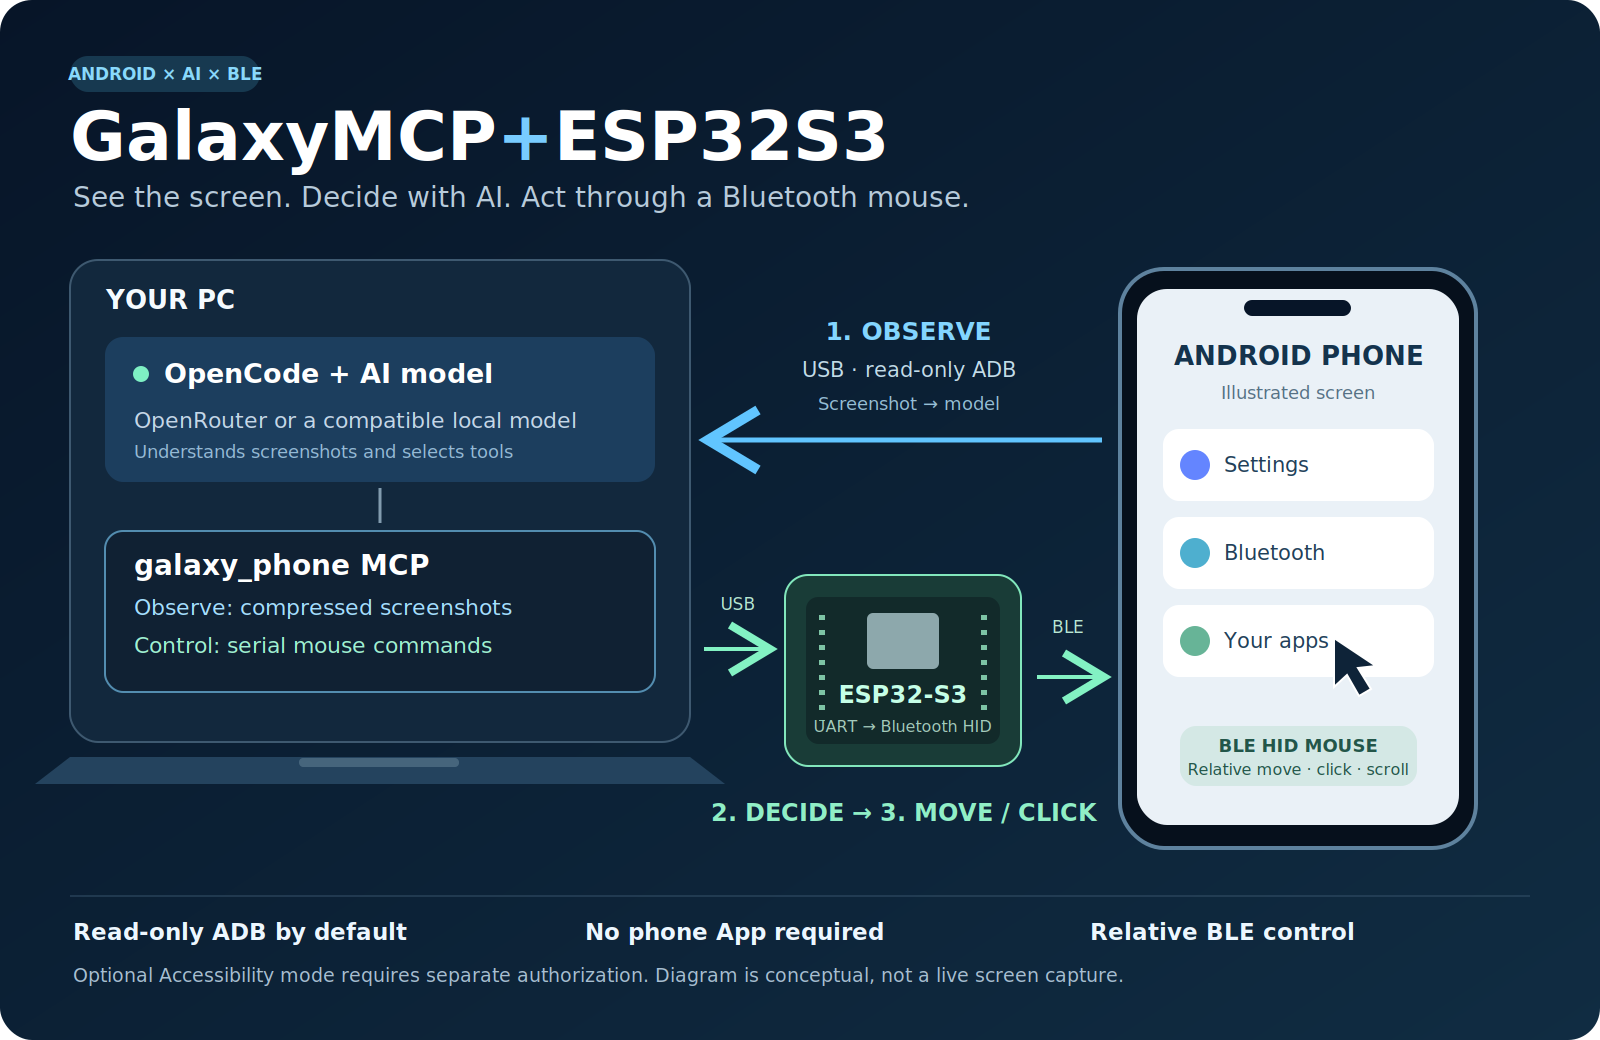
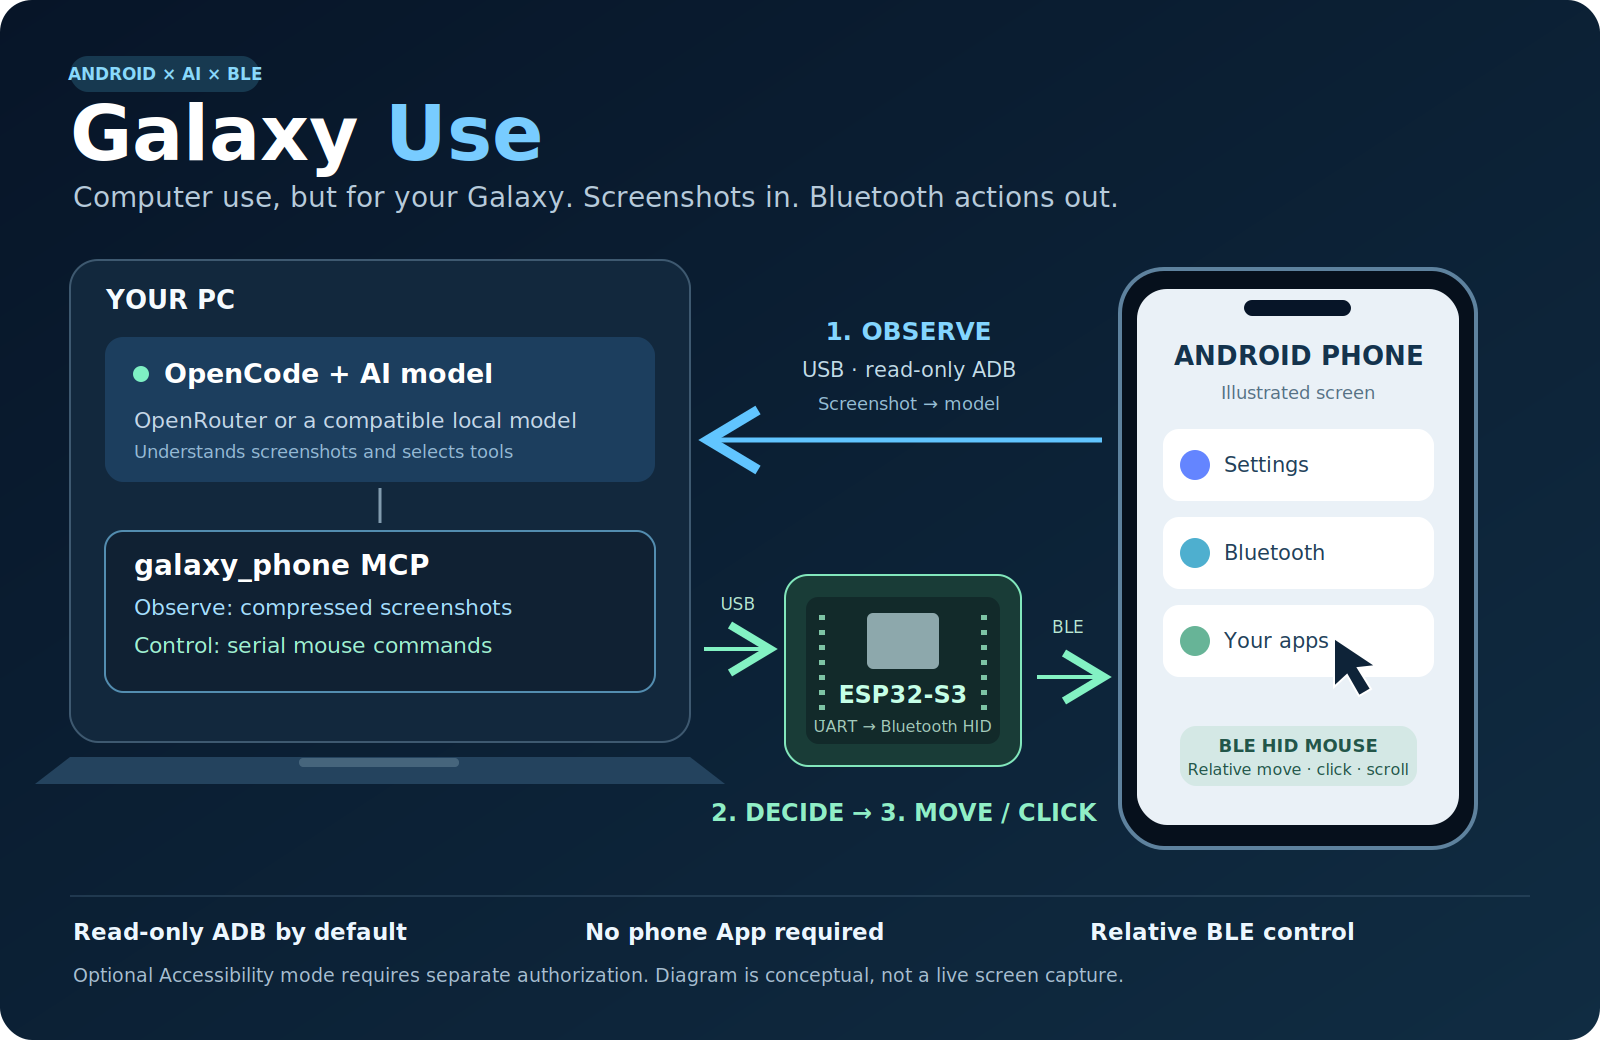
Rebrand as Galaxy Use with bilingual positioning, related projects and refreshed workflow graphic

Changed region(s): [[0.0312, 0.0923, 0.6875, 0.2154]]

diff --git a/README.md b/README.md
@@ -1,11 +1,11 @@
-# GalaxyMCP+ESP32S3
+# Galaxy Use
 
 [繁體中文](#traditional-chinese) · [English](#english)
 
-**讓 OpenCode 看懂 Android 畫面，再經 ESP32-S3 藍牙滑鼠操作手機。**  
-**Let OpenCode observe your Android screen and operate a Bluetooth mouse through an ESP32-S3.**
+**讓 AI 使用你真正的 Galaxy 手機。讀取畫面，再以藍牙滑鼠操作。**  
+**Computer-use-style control for your real Galaxy phone. Screenshots in. Bluetooth actions out.**
 
-![GalaxyMCP+ESP32S3 architecture: screenshots travel from Android to OpenCode through read-only ADB; mouse commands travel from the PC through ESP32-S3 to the phone over Bluetooth.](docs/images/how-it-works.png)
+![Galaxy Use: screenshots travel from Android to OpenCode through read-only ADB; mouse commands travel from the PC through ESP32-S3 to the phone over Bluetooth.](docs/images/how-it-works.png)
 
 **Beta · Windows 10/11 · Android · ESP32-S3 · OpenCode · OpenRouter or a compatible local model**
 
@@ -15,11 +15,15 @@
 
 ### 這個專案是甚麼？
 
-GalaxyMCP+ESP32S3 是連接 **AI 助理與 Android 手機**的本機橋接程式。你在 OpenCode 輸入指令，AI 經 MCP 取得手機畫面，再透過 ESP32-S3 的藍牙 HID 滑鼠功能移動、點擊或捲動。
+**Computer Use，換成你手上的 Galaxy。** Galaxy Use 是連接 AI 助理與真實 Samsung Galaxy／Android 手機的開源本機橋接程式。你在 OpenCode 輸入指令，AI 經 MCP 取得手機畫面，再透過 ESP32-S3 的藍牙 HID 滑鼠功能移動、點擊或捲動。
+
+核心不是模擬器，而是你已解鎖、已授權的實體手機；畫面觀察與輸入控制走兩條獨立路線。預設以 ADB 唯讀擷取畫面，以 ESP32-S3 發送藍牙滑鼠輸入。
 
 **例如：**「描述目前畫面」、「向下捲動一次，再告訴我有甚麼新內容」，或「向右移動滑鼠一次」。開啟 App 或選擇按鈕需要可靠的指標位置及結果驗證，並非輸入名稱就能保證精準點擊。
 
 專案本身不包含 AI 模型；需要 OpenCode 和支援圖片及工具呼叫的模型。預設流程不需要在手機安裝輔助 App。
+
+> 專案原名 GalaxyMCP+ESP32S3，現更名為 Galaxy Use。為保持現有安裝相容，MCP 名稱仍是 `galaxy_phone`，藍牙裝置及輔助 App 名稱亦暫時保留。這次是 repo 品牌及說明更新，不代表新增控制能力。
 
 ### 可以做甚麼？
 
@@ -127,6 +131,21 @@ GalaxyMCP+ESP32S3 是連接 **AI 助理與 Android 手機**的本機橋接程式
 
 [韌體說明](docs/FIRMWARE.md) · [完整 App 指引](README_TC.md) · [安全及資料處理](SECURITY.md) · [MIT License](LICENSE)
 
+### Computer Use / iPhone Use 與 Galaxy Use
+
+Galaxy Use 採用同一類「觀察 → 決策 → 操作 → 驗證」的 agent-use 定位，將焦點放在 Windows、Galaxy／Android 實體手機及 ESP32-S3 藍牙控制。以下是相關開源專案，方便比較不同平台的設計：
+
+| 專案 | 主要方向 |
+|---|---|
+| [open-computer-use](https://github.com/e2b-dev/open-computer-use) | 在 E2B 桌面沙盒內使用 AI 操作電腦 |
+| [iphone-use — leeguooooo](https://github.com/leeguooooo/iphone-use) | macOS 上的實體 iPhone 操作，提供 MCP 等介面 |
+| [iphone-use — xhoantran](https://github.com/xhoantran/iphone-use) | 從 Mac 經 USB 讀取 iPhone 畫面、經藍牙輸入 |
+| **Galaxy Use（本專案）** | Windows + Galaxy／Android；預設 ADB 唯讀觀察 + ESP32-S3 相對 BLE 滑鼠 |
+
+這些是相關專案連結，並非已整合的依賴。Galaxy Use 沒有移植它們的程式碼，也不宣稱具備相同的串流、鍵盤或精準座標點擊能力。若日後重用程式碼，需另行遵守來源授權並保留標示。
+
+本專案為獨立社群專案，並非 Samsung、OpenAI 或上述專案的官方產品或合作版本。
+
 ---
 
 <a id="english"></a>
@@ -137,9 +156,13 @@ GalaxyMCP+ESP32S3 是連接 **AI 助理與 Android 手機**的本機橋接程式
 
 ### What is this project?
 
-**GalaxyMCP+ESP32S3 connects an AI assistant to an Android phone through a local MCP bridge.** You give instructions in OpenCode. A compatible model observes the phone's screenshot and chooses tools; an ESP32-S3 acts as a Bluetooth HID mouse to move, click or scroll.
+**Computer use, but for the Galaxy in your hand.** Galaxy Use is an open-source local bridge that lets an AI assistant observe and interact with a real Samsung Galaxy / Android phone. You give instructions in OpenCode. A compatible model observes the phone's screenshot and chooses tools; an ESP32-S3 acts as a Bluetooth HID mouse to move, click or scroll.
+
+The target is your unlocked, explicitly authorized physical phone, not an emulator. Observation and input use separate paths: read-only ADB for screenshots, and ESP32-S3 BLE HID for mouse input.
 
 The AI model runs through your chosen provider, such as OpenRouter or a compatible local service. **No AI model is included.** The default workflow does not require an Android companion app.
+
+> Formerly GalaxyMCP+ESP32S3. The MCP server remains `galaxy_phone`, and existing Bluetooth / companion App names remain unchanged for compatibility. This is a repository branding and documentation update, not a new control capability.
 
 ### What can it do?
 
@@ -266,3 +289,18 @@ Do not commit private settings, pairing tokens, API keys, device identifiers, sc
 Tests cover MCP stdio, screenshot compression, coordinate mapping, serial state handling, optional companion communication and pairing, and read-only command restrictions. Mock hardware tests do not replace testing on the actual phone and board.
 
 [Development-signed APK](GalaxyPhoneBridge.apk) · [Firmware guide](docs/FIRMWARE.md) · [Android source](android/) · [Security](SECURITY.md) · [MIT License](LICENSE)
+
+### Computer Use / iPhone Use / Galaxy Use
+
+Galaxy Use follows the same broad observe → decide → act → verify approach, with a focus on Windows, real Galaxy / Android phones and an external ESP32-S3 Bluetooth controller. Related open-source projects illustrate different platform choices:
+
+| Project | Focus |
+|---|---|
+| [open-computer-use](https://github.com/e2b-dev/open-computer-use) | AI interaction with a desktop in an E2B sandbox |
+| [iphone-use — leeguooooo](https://github.com/leeguooooo/iphone-use) | Real iPhone control on macOS, including MCP access |
+| [iphone-use — xhoantran](https://github.com/xhoantran/iphone-use) | Mac-based USB screen capture and Bluetooth input for iPhone |
+| **Galaxy Use (this project)** | Windows + Galaxy / Android; read-only ADB observation and ESP32-S3 relative BLE mouse input by default |
+
+These are related-project references, not integrated dependencies. Galaxy Use has not imported their code and does not claim their streaming, keyboard or precise coordinate-control capabilities. Any future code reuse must respect the upstream license and attribution requirements.
+
+Galaxy Use is an independent community project, not an official Samsung or OpenAI product, and is not affiliated with the projects linked above.

diff --git a/README_TC.md b/README_TC.md
@@ -1,6 +1,6 @@
 > 公開版 v3.1 預設為 ADB 唯讀，以下是需要明確授權的可選 App 模式。公司只批准 ADB 讀取時，請使用 README.md 的截圖＋ESP32 流程，不執行下列安裝／配對。管理員批准後才可使用非唯讀設定；本套件不改變公司政策。
 
-# Galaxy Phone MCP v3 — USB Accessibility 輔助 App
+# Galaxy Use — USB Accessibility 輔助 App（可選模式）
 
 適用：Windows、OpenCode + OpenRouter、已授權 USB 偵錯的 S26 Ultra。ESP32 韌體及藍牙連線毋須更改。
 

diff --git a/AGENTS.md b/AGENTS.md
@@ -1,4 +1,4 @@
-# GalaxyMCP+ESP32S3 agent instructions
+# Galaxy Use agent instructions
 
 Respond concisely in Hong Kong Traditional Chinese unless the user asks otherwise.
 
